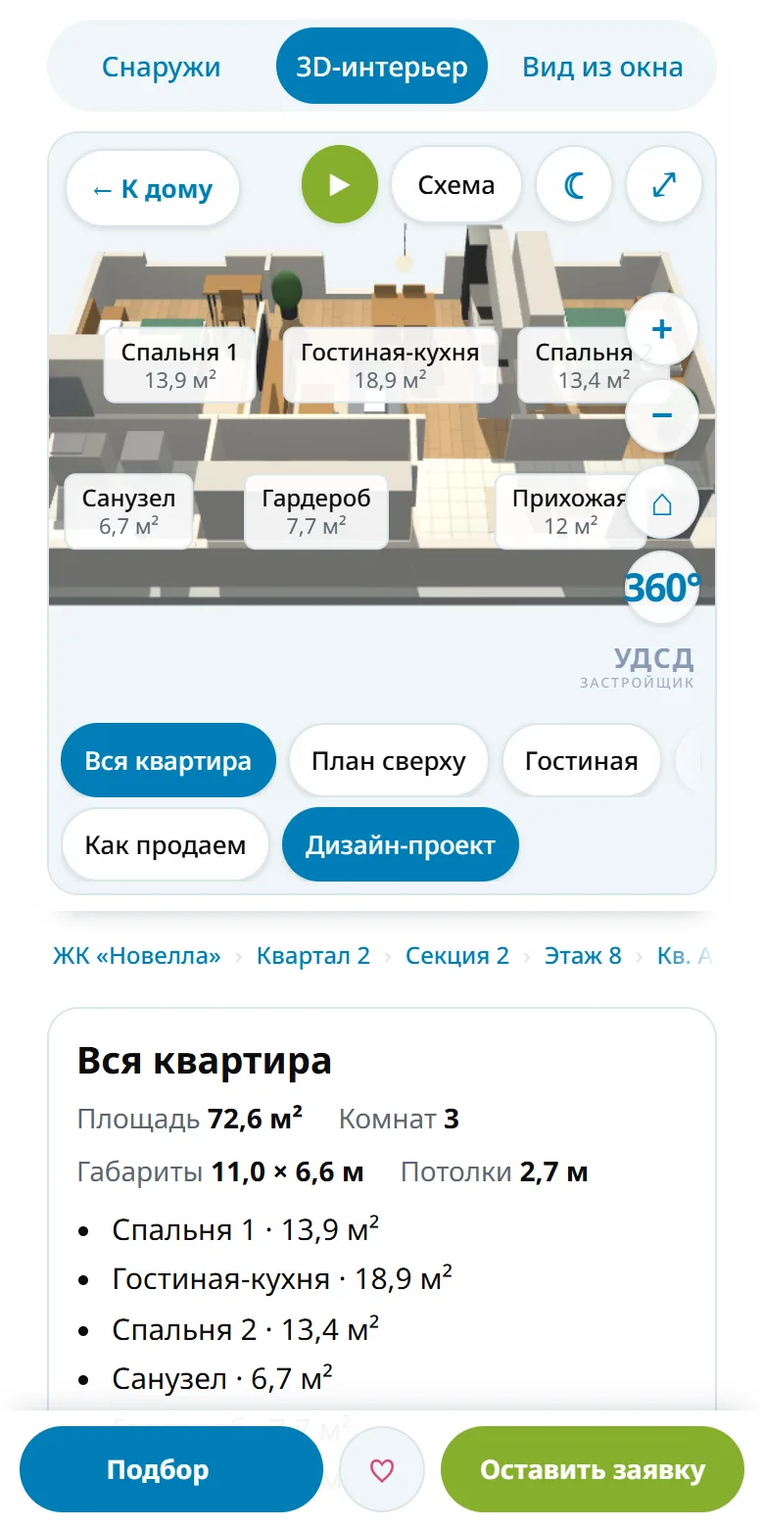
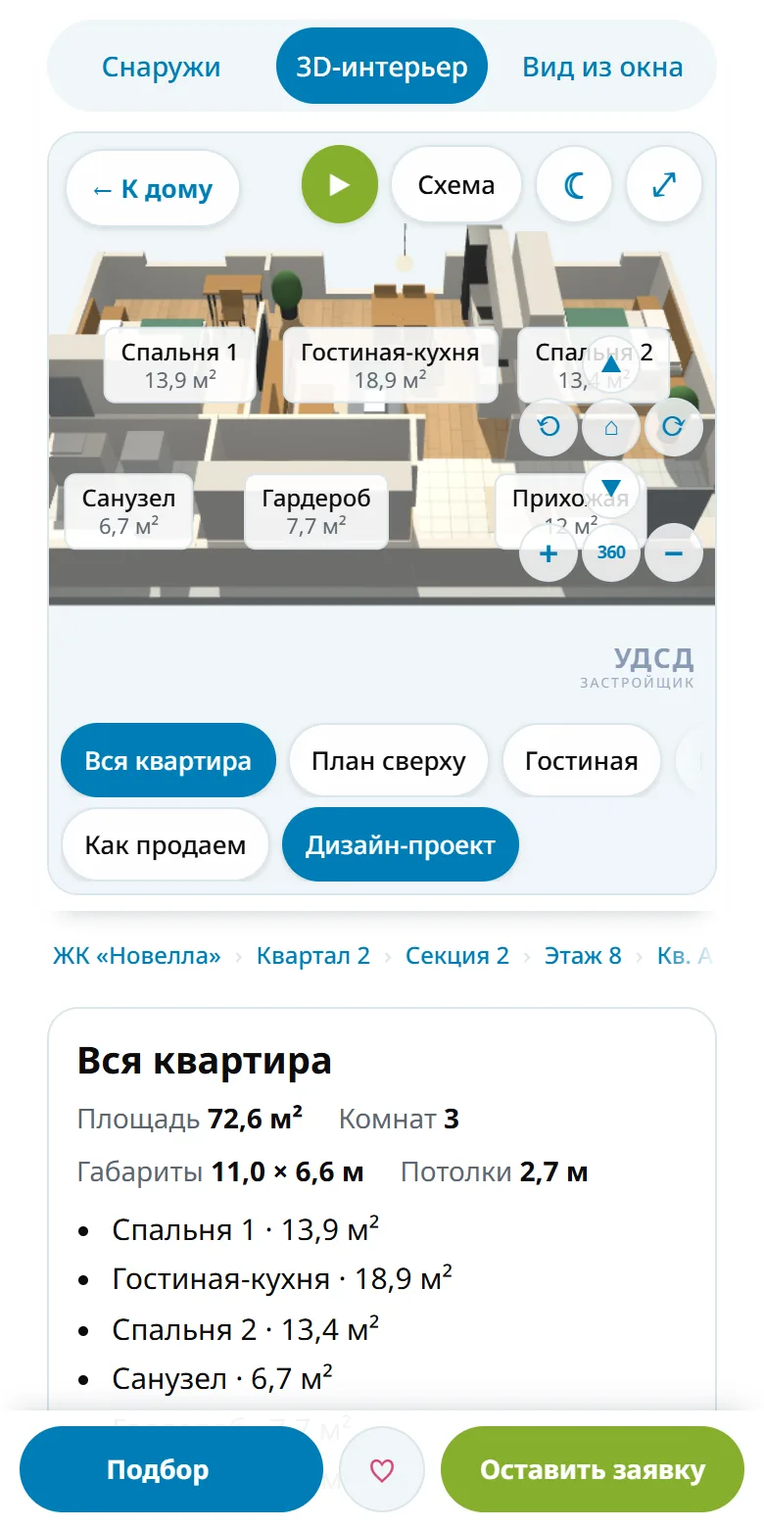
Навигация кнопками, большое окно 3D, дом не режется, подписи дальних мест
Окно 3D почти на всю высоту, в КП демо шире и выше; меньше кнопок и подсказок поверх 3D.
Снаружи: ряд шагов Город · Район · ЖК · Дом · Этаж · Квартира, крестовина камеры (наклон, поворот, вернуть вид, масштаб, 360), компас и план комплекса с направлением камеры.
Выбор квартиры оставляет весь дом с подсветкой; этаж в разрезе — по кнопке, с настоящим фасадом снизу и стеклом сверху.
Микрорайоны, части города и реки подписаны с расстоянием; то, что за кадром, — у края со стрелкой.

Changed region(s): [[0.6769, 0.1846, 0.9231, 0.4]]

diff --git a/demo/index.html b/demo/index.html
@@ -64,7 +64,7 @@ h1{font-family:var(--f-display);font-weight:700;font-size:clamp(26px,6vw,38px);l
    Phones get a shorter stage so there is room to scroll the controls; short landscape screens do not pin at all. */
 .pin{position:sticky;top:0;z-index:5;display:flex;flex-direction:column;gap:10px;background:var(--bg);margin:0 -4px;padding:max(6px,env(safe-area-inset-top,0px)) 4px 8px;box-shadow:0 10px 12px -12px rgba(15,40,55,.35)}
 @media (max-height:480px){.pin{position:static;box-shadow:none}}   /* a phone held sideways: no room to pin */
-.stage{position:relative;height:clamp(340px,58vh,640px);height:clamp(340px,58svh,640px);background:var(--stage);border:1px solid var(--line);border-radius:16px;overflow:hidden;--dockh:0px}
+.stage{position:relative;height:clamp(420px,calc(100vh - 130px),900px);height:clamp(420px,calc(100svh - 130px),900px);background:var(--stage);border:1px solid var(--line);border-radius:16px;overflow:hidden;--dockh:0px}
 .stage canvas{display:block;width:100%;height:100%;touch-action:none}
 /* controls on the stage: a dock of chip rows along the bottom edge, day/evening under the plan button */
 .dock{position:absolute;left:0;right:0;bottom:0;display:flex;flex-direction:column;gap:6px;padding:22px 8px 8px;background:linear-gradient(to top,color-mix(in srgb,var(--stage) 92%,transparent) 55%,transparent);touch-action:pan-x;pointer-events:none}
@@ -217,7 +217,7 @@ button,select,summary,a,.chip,.rl{touch-action:manipulation;-webkit-tap-highligh
 .stage.walk .logo{display:none}   /* walking: the mini-map takes that corner */
 .tabs button.dev:not([aria-pressed="true"]),.chip.dev{opacity:.5}   /* not drawn for the chosen flat yet: «в разработке» on tap */
 /* floor column on the stage (left): number + a dot per apartment; the chosen floor filled */
-.stack{position:absolute;left:8px;top:56px;bottom:calc(var(--dockh) + 40px);z-index:2;display:flex;flex-direction:column;gap:2px;overflow-y:auto;scrollbar-width:none;background:color-mix(in srgb,var(--surf) 90%,transparent);border-radius:12px;padding:5px;box-shadow:0 1px 4px rgba(0,0,0,.12);max-height:max-content}
+.stack{position:absolute;left:8px;top:110px;bottom:calc(var(--dockh) + 40px);z-index:2;display:flex;flex-direction:column;gap:2px;overflow-y:auto;scrollbar-width:none;background:color-mix(in srgb,var(--surf) 90%,transparent);border-radius:12px;padding:5px;box-shadow:0 1px 4px rgba(0,0,0,.12);max-height:max-content}
 .stack::-webkit-scrollbar{display:none}
 .stack[hidden],body.touring .stack{display:none}
 .stack button{display:flex;align-items:center;gap:6px;border:0;background:transparent;border-radius:7px;padding:3px 6px;font:600 12px/1 var(--f-body);color:var(--fg);cursor:pointer;font-variant-numeric:tabular-nums;min-height:22px}
@@ -271,12 +271,34 @@ body.pinned:not(.full) .stack{display:none}
 .gl.aptl{pointer-events:auto;cursor:pointer;font-weight:700;font-size:12px;border:2px solid #fff;padding:3px 8px;box-shadow:0 1px 3px rgba(0,0,0,.2)}
 .gl.aptl.on{background:var(--acc);color:#fff}
 /* camera buttons: a column on the right, centred in the free part of the stage */
-.navpad{position:absolute;right:8px;top:calc((100% - var(--dockh)) / 2 + 24px);transform:translateY(-50%);display:flex;flex-direction:column;gap:6px;z-index:2}
+.navpad{position:absolute;right:8px;top:calc((100% - var(--dockh)) / 2 + 24px);transform:translateY(-50%);display:grid;grid-template-columns:repeat(3,38px);gap:4px;z-index:2;background:color-mix(in srgb,var(--surf) 70%,transparent);border-radius:14px;padding:5px}
 .navpad[hidden],body.touring .navpad{display:none}
-.navpad .icobtn{font-size:20px}
+.navpad .icobtn{width:38px;height:38px;font-size:17px;box-shadow:none}
+.navpad #nZoomIn,.navpad #nZoomOut{font-size:22px}
+/* where you are: compass + plan of the complex with the camera wedge */
+.where{position:absolute;left:8px;top:8px;z-index:2;display:flex;gap:6px;align-items:flex-start}
+.where[hidden],body.touring .where{display:none}
+.compass{width:40px;height:40px;border-radius:50%;border:1px solid var(--line);background:color-mix(in srgb,var(--surf) 94%,transparent);cursor:pointer;padding:0;position:relative;box-shadow:0 1px 3px rgba(0,0,0,.12)}
+.compass i{position:absolute;inset:0;display:flex;align-items:flex-start;justify-content:center;font:700 11px/1 var(--f-body);font-style:normal;color:#c43d32;padding-top:3px}
+.compass i::after{content:"";position:absolute;left:50%;top:15px;width:0;height:0;border:5px solid transparent;border-bottom:13px solid #c43d32;transform:translateX(-50%)}
+.cmap{width:170px;height:94px;background:color-mix(in srgb,var(--surf) 92%,transparent);border-radius:10px;box-shadow:0 1px 3px rgba(0,0,0,.12);cursor:pointer}
+.cmap rect{fill:#d9dee0;stroke:#fff;stroke-width:1.5}
+.cmap rect.free{fill:#bfe8d2}.cmap rect.cur{fill:var(--acc)}.cmap rect.own{stroke:#f2a23a;stroke-width:3}
+.cmap .road{fill:none;stroke:#b9bfc3;stroke-width:5}
+.cmap .cam{fill:rgba(0,125,182,.25);stroke:var(--acc);stroke-width:1.5}
+.cmap text{font:600 11px var(--f-body);fill:var(--mut)}
+/* steps along the bottom: city → district → complex → house → floor → apartment */
+.dock .steps .chip{font-weight:600}
+.dock .steps .chip[disabled]{opacity:.4;cursor:default}
+.gl.far{font-size:10.5px;color:var(--mut);background:color-mix(in srgb,var(--surf) 78%,transparent);border:1px dashed color-mix(in srgb,var(--mut) 40%,transparent)}
 @media (max-width:640px){
-  .navpad .nturn{display:none}   /* a finger turns the scene itself; zoom and «back» stay */
-  .navpad .icobtn{width:38px;height:38px}
+  .navpad{grid-template-columns:repeat(3,30px);gap:2px;padding:2px;right:4px;background:transparent}
+  .navpad .icobtn{width:30px;height:30px;font-size:13px;background:color-mix(in srgb,var(--surf) 82%,transparent)}
+  .navpad #nZoomIn,.navpad #nZoomOut{font-size:18px}
+  .navpad .nauto{font-size:9px}
+  .dock .steps .chip{padding:6px 10px}
+  .cmap{display:none}   /* a phone keeps the compass; the plan would cover the floor column */
+  .compass{width:34px;height:34px}
   body.pinned:not(.full) .navpad{display:none}
 }
 /* guided tour */
@@ -401,19 +423,26 @@ body.touring #dock,body.touring .hint,body.touring .badge,body.touring #tourBtn,
     <div class="tbar">
       <button type="button" class="planbtn tourbtn" id="tourBtn" aria-label="Экскурсия по «Новелле»">▶<span class="lg"> Экскурсия</span></button>
       <button type="button" class="planbtn" id="planBtn"><span class="lg">Схема квартиры</span><span class="sm">Схема</span></button>
-      <div class="chips tchips" id="rTime" role="group" aria-label="Освещение"></div>
-      <button type="button" class="icobtn sm" id="timeBtn" aria-label="Включить вечер">☾</button>
+      <div class="chips tchips" id="rTime" role="group" aria-label="Освещение" hidden></div>
+      <button type="button" class="icobtn" id="timeBtn" aria-label="Включить вечер" title="День / вечер">☾</button>
       <button type="button" class="icobtn" id="fullBtn" aria-label="Во весь экран" aria-pressed="false">⤢</button>
     </div>
     <div class="mini" id="mini" hidden></div>
-    <!-- camera buttons on the right edge: for those who do not drag or pinch -->
+    <!-- where you are: compass (north) and a map of the complex with the camera and its direction; tap a building on it to choose it -->
+    <div class="where" id="where">
+      <button type="button" class="compass" id="compass" aria-label="Повернуть камеру на север" title="Север вверх"><i>С</i></button>
+      <svg class="cmap" id="cmap" viewBox="-200 -110 400 220" aria-label="План комплекса"></svg>
+    </div>
+    <!-- camera by buttons: tilt, turn, back to the view, zoom, slow turn by itself -->
     <div class="navpad" id="navpad" role="group" aria-label="Камера">
-      <button type="button" class="icobtn" id="nZoomIn" aria-label="Приблизить" title="Приблизить">+</button>
-      <button type="button" class="icobtn" id="nZoomOut" aria-label="Отдалить" title="Отдалить">−</button>
-      <button type="button" class="icobtn nturn" id="nLeft" aria-label="Повернуть влево" title="Повернуть влево">⟲</button>
-      <button type="button" class="icobtn nturn" id="nRight" aria-label="Повернуть вправо" title="Повернуть вправо">⟳</button>
+      <span></span><button type="button" class="icobtn" id="nUp" aria-label="Посмотреть сверху" title="Выше">▲</button><span></span>
+      <button type="button" class="icobtn" id="nLeft" aria-label="Повернуть влево" title="Повернуть влево">⟲</button>
       <button type="button" class="icobtn" id="nHome" aria-label="Вернуть вид" title="Вернуть вид">⌂</button>
-      <button type="button" class="icobtn nauto" id="nAuto" aria-label="Вращать дом" title="Вращать дом" aria-pressed="false">360°</button>
+      <button type="button" class="icobtn" id="nRight" aria-label="Повернуть вправо" title="Повернуть вправо">⟳</button>
+      <span></span><button type="button" class="icobtn" id="nDown" aria-label="Посмотреть ниже" title="Ниже">▼</button><span></span>
+      <button type="button" class="icobtn" id="nZoomIn" aria-label="Приблизить" title="Приблизить">+</button>
+      <button type="button" class="icobtn nauto" id="nAuto" aria-label="Вращать" title="Вращать" aria-pressed="false">360</button>
+      <button type="button" class="icobtn" id="nZoomOut" aria-label="Отдалить" title="Отдалить">−</button>
     </div>
     <!-- outside: the floors of the chosen building, top to bottom, a dot per apartment in its status colour (tap = that floor, cut open) -->
     <div class="stack" id="stack" role="group" aria-label="Этажи дома"></div>
@@ -425,6 +454,7 @@ body.touring #dock,body.touring .hint,body.touring .badge,body.touring #tourBtn,
       <div class="chips" id="rView" data-m="int" role="group" aria-label="Комната"></div>
       <div class="chips" id="rFinish" data-m="int" role="group" aria-label="Отделка"></div>
       <div class="chips" id="rWin" data-m="win" role="group" aria-label="Окно"></div>
+      <div class="chips steps" id="rSteps" data-m="ext" role="group" aria-label="Что показать"></div>
       <div class="chips" id="rApt" data-m="off" role="group" aria-label="Квартира на этаже"></div>
       <div class="chips" id="rFloor" data-m="win" role="group" aria-label="Этаж"><span class="dlab">Этаж</span></div>
     </div>
@@ -1281,9 +1311,17 @@ body.touring #dock,body.touring .hint,body.touring .badge,body.touring #tourBtn,
     if (!fv) return;
     const sx = sec.alongX ? sec.len : sec.depth, sz = sec.alongX ? sec.depth : sec.len, y0 = (S.floor - 1) * FLOOR_H;
     const add = (geo, mat, x, y, z, ud) => { const m = new THREE.Mesh(geo, mat); m.position.set(x, y, z); if (ud) m.userData = ud; floorG.add(m); return m; };
-    if (y0 > 0.1) {   // the floors below, as a plain block with an outline
-      const lo = add(new THREE.BoxGeometry(sx, y0, sz), lowerMat, sec.cx, y0 / 2, sec.cz);
-      lo.add(new THREE.LineSegments(new THREE.EdgesGeometry(lo.geometry), flLine));
+    // the building stays a building: the floors below keep their real facade, the floors above turn to glass with an outline
+    const facadeBox = (h, floors) => {
+      const geo = new THREE.BoxGeometry(sx, h, sz), uv = geo.attributes.uv, vRep = floors / 4;
+      const tile = (face, ext) => { const u = Math.max(1, Math.round(ext / 6)) / 4; for (let i = face * 4; i < face * 4 + 4; i++) uv.setXY(i, uv.getX(i) * u, uv.getY(i) * vRep); };
+      tile(0, sz); tile(1, sz); tile(4, sx); tile(5, sx); return geo;
+    };
+    if (y0 > 0.1) add(facadeBox(y0, S.floor - 1), Array.isArray(sec.mesh.material) ? sec.mesh.material : lowerMat, sec.cx, y0 / 2, sec.cz);
+    const top = sec.floors * FLOOR_H - y0 - FLOOR_H;
+    if (top > 0.1) {
+      const up = add(new THREE.BoxGeometry(sx, top, sz), houseMat, sec.cx, y0 + FLOOR_H + top / 2, sec.cz); up.renderOrder = 2;
+      up.add(new THREE.LineSegments(new THREE.EdgesGeometry(up.geometry), new THREE.LineBasicMaterial({ color: '#7f9299' })));
     }
     if (!sec.own) add(new THREE.BoxGeometry(sx + 0.4, 0.3, sz + 0.4), plateMat, sec.cx, y0 + 0.15, sec.cz);   // the floor slab: corridor and lift core read as its light grey (our section has its own floor model)
     LETTERS.forEach((l) => {
@@ -1543,8 +1581,9 @@ body.touring #dock,body.touring .hint,body.touring .badge,body.touring #tourBtn,
       updateFov();
       const sec = SECTIONS[S.sec], c = [sec.cx, (S.floor - 1) * FLOOR_H + 0.5, sec.cz], half = Math.tan(THREE.MathUtils.degToRad(camera.fov) / 2);
       const R = Math.max(26, sec.len * 1.25 / (2 * half * Math.min(camera.aspect, 1.6)), WD * 2.4 / (2 * half)), el = 1.08;
-      const k = sec.own ? -1 : 1;   // our section from the street side: the plan model and its captions then read the right way up
-      pos = [c[0] + k * n.x * R * Math.cos(el), c[1] + R * Math.sin(el), c[2] + k * n.z * R * Math.cos(el)];
+      // our section always from the street (north, -z) side: the plan model and its captions then read the right way up
+      const fx = sec.own ? 0 : n.x, fz = sec.own ? -1 : n.z;
+      pos = [c[0] + fx * R * Math.cos(el), c[1] + R * Math.sin(el), c[2] + fz * R * Math.cos(el)];
       flyTo(pos, c, instant); return;
     }
     if (S.extView === 'top') pos = [tx[0] - 2, tx[1] + 95, tx[2] + 24];
@@ -1660,10 +1699,11 @@ body.touring #dock,body.touring .hint,body.touring .badge,body.touring #tourBtn,
   function selectSection(i) {
     const sec = SECTIONS[i]; S.sec = i; if (S.floor > sec.floors) S.floor = sec.floors; if (S.floor < 2) S.floor = 2;
     S.apt = i === towerSec.i ? 'a' : firstFree(sec, S.floor); if (S.sec === towerSec.i && S.floor === 8) S.apt = 'a';
-    S.inner = false; S.extView = 'house'; afterPick();
+    S.inner = false; S.extView = 'house'; S.aptOpen = false; afterPick();
   }
   // path of choosing (Дом → Этаж → Квартира → Прогулка): a flat tapped on the facade opens its floor with the card
-  function selectApt(f, l) { S.floor = f; S.apt = l; S.extView = 'floor'; S.aptOpen = true; afterPick(); }
+  // a flat tapped on the facade (or chosen in a list) stays on the whole house, lit, with its card; «Этаж» cuts the house open
+  function selectApt(f, l) { S.floor = f; S.apt = l; if (/^(all|area|city)$/.test(S.extView)) S.extView = 'house'; S.aptOpen = true; afterPick(); }
   function afterPick() { placeOutside(); flyExt(false); refresh(true); }
   function goHouse() { S.extView = 'house'; S.aptOpen = false; S.inner = false; if (S.mode !== 'ext') enterExt(false); else { placeOutside(); flyExt(false); } refresh(true); }
   function goFloor(f) {
@@ -1705,6 +1745,15 @@ body.touring #dock,body.touring .hint,body.touring .badge,body.touring #tourBtn,
   });
   GEO.push({ t: 'ЖК «Новелла»', k: 'novella', x: 0, z: -40, y: 40 });
   const geoDom = [], gv = new THREE.Vector3();
+  // far labels: real districts and city parts (OpenStreetMap) and the rivers at their nearest point, nearest first
+  const kmTxt = (m) => (m < 1000 ? Math.round(m / 50) * 50 + ' м' : (m / 1000).toFixed(1).replace('.', ',') + ' км');
+  const FAR = [];
+  DISTRICTS.forEach((D) => { const m = Math.hypot(D.c[0], D.c[1]); if (m > 450) FAR.push({ k: 'far', x: D.c[0], z: D.c[1], km: m, t: D.n.replace(/^микрорайон /, 'мкр ').replace(/^квартал /, 'кв-л ') + ' · ' + kmTxt(m) }); });
+  if (CITY) {
+    CITY.parts.forEach((pt) => { const p = ring2(pt[1]), x = p.reduce((a, q) => a + q[0], 0) / p.length, z = p.reduce((a, q) => a + q[1], 0) / p.length, m = Math.hypot(x, z); if (m > 1500) FAR.push({ k: 'far', x: x, z: z, km: m, t: pt[0].replace('Новый Уренгой · ', '') + ' · ' + kmTxt(m) }); });
+    CITY.rivers.forEach((rv) => { let best = null; rv[1].forEach((f) => { for (let i = 0; i < f.length; i += 2) { const m = Math.hypot(f[i], f[i + 1]); if (!best || m < best.km) best = { x: f[i], z: f[i + 1], km: m }; } }); if (best) FAR.push({ k: 'far', x: best.x, z: best.z, km: best.km, t: 'р. ' + rv[0] + ' · ' + kmTxt(best.km) }); });
+  }
+  FAR.sort((a, b) => a.km - b.km);
   function updateGeo() {
     const on = S.mode === 'ext'; geoEl.hidden = !on; if (!on) return;
     const w = stageEl.clientWidth, h = stageEl.clientHeight, cp = camera.position, items = [], city = S.extView === 'city', wide = city || S.extView === 'area' || S.extView === 'all';
@@ -1715,8 +1764,27 @@ body.touring #dock,body.touring .hint,body.touring .badge,body.touring #tourBtn,
         if (gv.z < 1) items.push({ g: { k: 'aptl', l: l, t: '№ ' + aptNum(sec.i, S.floor, l) }, d: -5, sx: (gv.x * 0.5 + 0.5) * w, sy: (-gv.y * 0.5 + 0.5) * h });
       });
     }
+    // what is out there in the distance: districts, parts of the city, rivers — named with the distance from the complex
+    // out of the frame, the label sits at the edge of the stage with an arrow towards it, like a navigator (one per direction)
+    if (/^(house|yard|top|back|all|floor)$/.test(S.extView)) {
+      const dh = dockEl.offsetHeight, nl = narrow(), x0 = nl ? 120 : 140, x1 = w - (nl ? 120 : 150), y0 = 58, y1 = h - dh - 16, cx = (x0 + x1) / 2, cy = (y0 + y1) / 2, dirs = [];
+      const ARW = ['→', '↘', '↓', '↙', '←', '↖', '↑', '↗'];
+      let nIn = 0;
+      FAR.forEach((g) => {
+        gv.set(g.x, 12, g.z).project(camera);
+        let dx = gv.x, dy = -gv.y; const behind = gv.z > 1; if (behind) { dx = -dx; dy = -dy; }
+        const sx = (dx * 0.5 + 0.5) * w, sy = (dy * 0.5 + 0.5) * h;
+        if (!behind && sx > x0 && sx < x1 && sy > y0 && sy < y1) { if (nIn++ < 6) items.push({ g: g, d: 1e5 + g.km, sx: sx, sy: sy }); return; }
+        let ux = sx - cx, uy = sy - cy; const L = Math.hypot(ux, uy) || 1; ux /= L; uy /= L;
+        const a = Math.atan2(uy, ux); if (dirs.length >= 6 || dirs.some((q) => Math.abs(Math.atan2(Math.sin(a - q), Math.cos(a - q))) < 0.5)) return; dirs.push(a);
+        const t = Math.min(ux ? ((ux > 0 ? x1 : x0) - cx) / ux : 1e9, uy ? ((uy > 0 ? y1 : y0) - cy) / uy : 1e9);
+        const oct = ((Math.round(a / (Math.PI / 4)) % 8) + 8) % 8;
+        items.push({ g: { k: 'far', t: ARW[oct] + ' ' + g.t }, d: 2e5 + g.km, sx: cx + ux * t, sy: cy + uy * t });
+      });
+    }
     GEO.forEach((g) => {
       if (S.extView === 'floor') return;
+      if (g.k === 'dist' && /^(house|yard|top|back|all)$/.test(S.extView)) return;   // shown as far labels with distance
       if (city ? !/^(dist|part|novella)$/.test(g.k) : g.k === 'part' || g.k === 'novella') return;   // the city map shows only the city's names
       if (g.k === 'dist' && !wide) return;
       if (g.k === 'sec' && ((S.layer !== 'free' && !fltOn()) || S.extView === 'house' || g.sec.i === S.sec || !(fltOn() ? g.sec.match : g.sec.free) || S.extView === 'area')) return;
@@ -1731,17 +1799,19 @@ body.touring #dock,body.touring .hint,body.touring .badge,body.touring #tourBtn,
       if (gv.z < 1) items.push({ g: { k: 'own', t: 'Наша кв. А · 3D-интерьер' }, d: -1, sx: (gv.x * 0.5 + 0.5) * w, sy: (-gv.y * 0.5 + 0.5) * h - 14 });
     }
     items.sort((a, b) => a.d - b.d);
-    const max = city ? 44 : 26; let ns = 0; const shown = items.filter((it) => it.g.k !== 'sec' || ++ns <= (S.extView === 'all' ? 12 : 8)).slice(0, max);
+    const max = city ? 44 : 34; let ns = 0; const shown = items.filter((it) => it.g.k !== 'sec' || ++ns <= (S.extView === 'all' ? 12 : 8)).slice(0, max);
     while (geoDom.length < max) { const d = document.createElement('div'); d.className = 'gl'; geoEl.appendChild(d); geoDom.push(d); }
     const placed = [];   // in the wide views a label that would cover one already placed is skipped (nearest and city names go first)
     geoDom.forEach((d, i) => {
       const it = shown[i]; if (!it) { d.style.display = 'none'; return; }
       const g = it.g, txt = g.k === 'sec' ? (fltOn() ? g.sec.match + ' подх.' : g.sec.free + ' своб.') : g.t;
-      const cls = 'gl ' + (/^(sec|street|own|dist|part|novella|aptl)$/.test(g.k) ? g.k : '') + (g.k === 'aptl' && S.aptOpen && g.l === S.apt ? ' on' : '');
+      const cls = 'gl ' + (/^(sec|street|own|dist|part|novella|aptl|far)$/.test(g.k) ? g.k : '') + (g.k === 'aptl' && S.aptOpen && g.l === S.apt ? ' on' : '');
       d.style.display = ''; let ch = !d._w; if (d.className !== cls) { d.className = cls; ch = true; } if (d.textContent !== txt) { d.textContent = txt; ch = true; }
       if (ch) { d._w = d.offsetWidth; d._h = d.offsetHeight; }   // size is measured only when the label changes
-      const bw = d._w, bh = d._h, x = it.sx - bw / 2, y = it.sy - bh / 2;
-      if (wide && placed.some((p) => x < p[0] + p[2] + 2 && x + bw + 2 > p[0] && y < p[1] + p[3] + 1 && y + bh + 1 > p[1])) { d.style.display = 'none'; return; }
+      const bw = d._w, bh = d._h;
+      let x = it.sx - bw / 2, y = it.sy - bh / 2;
+      if (g.k === 'far') { x = clamp(x, narrow() ? 118 : 136, w - bw - (narrow() ? 118 : 146)); y = clamp(y, 52, h - bh - dockEl.offsetHeight - 6); }   // clear of the floor column and the camera pad   // edge labels stay whole inside the stage
+      if (placed.some((p) => x < p[0] + p[2] + 2 && x + bw + 2 > p[0] && y < p[1] + p[3] + 1 && y + bh + 1 > p[1])) { d.style.display = 'none'; return; }
       placed.push([x, y, bw, bh]);
       d.dataset.sec = g.k === 'sec' ? g.sec.i : ''; d.dataset.l = g.k === 'aptl' ? g.l : '';
       d.style.borderColor = g.k === 'aptl' ? FL_COL[status(S.sec, S.floor, g.l)] : '';   // the number carries the status colour of its flat
@@ -1837,7 +1907,7 @@ body.touring #dock,body.touring .hint,body.touring .badge,body.touring #tourBtn,
   }
   function goApt(si, f, l) {
     S.sec = si; S.floor = f; S.apt = l; S.inner = false;
-    S.extView = 'floor'; S.aptOpen = true;   // the floor of that flat, cut open, with its card
+    if (!/^(yard|top|back)$/.test(S.extView)) S.extView = 'house'; S.aptOpen = true;   // the whole house with that flat lit, and its card
     if (S.mode !== 'ext') { enterExt(true); refresh(true); } else afterPick();
   }
   const openPick = () => { document.body.classList.add('picking'); $('scrim').hidden = false; };
@@ -1975,7 +2045,58 @@ body.touring #dock,body.touring .hint,body.touring .badge,body.touring #tourBtn,
   $('nZoomIn').addEventListener('click', () => navZoom(0.66)); $('nZoomOut').addEventListener('click', () => navZoom(1.5));
   $('nLeft').addEventListener('click', () => navTurn(0.6)); $('nRight').addEventListener('click', () => navTurn(-0.6));
   $('nHome').addEventListener('click', navHome);
+  // tilt: ▲ looks more from above, ▼ lower towards the horizon
+  function navTilt(d) {
+    const t = controls.target.clone(), sp = new THREE.Spherical().setFromVector3(camera.position.clone().sub(t));
+    sp.phi = clamp(sp.phi - d, 0.12, Math.min(controls.maxPolarAngle, 1.5)); orbitTo(new THREE.Vector3().setFromSpherical(sp).add(t), t);
+  }
+  $('nUp').addEventListener('click', () => navTilt(0.3)); $('nDown').addEventListener('click', () => navTilt(-0.3));
   sync.push(() => { $('navpad').hidden = !orbitOn(); });
+
+  /* ---------- where you are: compass and the plan of the complex ---------- */
+  // north on the map: the city layer is turned with ул. Мира (CITY.rot), so true north is -z turned by that angle
+  const NR = THREE.MathUtils.degToRad(CITY ? CITY.rot : 0), NORTH = new THREE.Vector3(-Math.sin(-NR), 0, -Math.cos(-NR));
+  const camDir = new THREE.Vector3();
+  function camHeading() { camera.getWorldDirection(camDir); camDir.y = 0; if (camDir.lengthSq() < 1e-6) camDir.set(0, 0, -1); camDir.normalize(); return Math.atan2(camDir.x * NORTH.z - camDir.z * NORTH.x, camDir.x * NORTH.x + camDir.z * NORTH.z); }
+  const compassI = $('compass').firstElementChild;
+  $('compass').addEventListener('click', () => {   // turn the camera about its centre until it faces north
+    const t = controls.target.clone(), off = camera.position.clone().sub(t), h = camHeading();
+    orbitTo(off.applyAxisAngle(new THREE.Vector3(0, 1, 0), h).add(t), t);
+  });
+  const cmap = $('cmap'), SVGN = 'http://www.w3.org/2000/svg';
+  const sv = (tag, at) => { const e = document.createElementNS(SVGN, tag); Object.keys(at).forEach((k) => e.setAttribute(k, at[k])); return e; };
+  [[-200, -104, 400, -104], [-200, 0, 400, 0], [-200, 104, 400, 104], [0, -110, 0, 110]].forEach((r) => cmap.appendChild(sv('line', { x1: r[0], y1: r[1], x2: r[2], y2: r[3], class: 'road' })));
+  const cmRects = SECTIONS.map((sec) => {
+    const w = sec.alongX ? sec.len : sec.depth, d = sec.alongX ? sec.depth : sec.len;
+    const r = sv('rect', { x: sec.cx - w / 2, y: sec.cz - d / 2, width: w, height: d, rx: 1.5 }); r.addEventListener('click', (e) => { e.stopPropagation(); selectSection(sec.i); });
+    cmap.appendChild(r); return r;
+  });
+  const cmCam = sv('path', { class: 'cam' }); cmap.appendChild(cmCam);
+  cmap.appendChild(sv('text', { x: -194, y: -94 })).textContent = 'ул. Мира';
+  cmap.addEventListener('click', () => goExt('all'));
+  let whereKey = '';
+  function renderWhere() {
+    const on = S.mode === 'ext'; $('where').hidden = !on; if (!on) return;
+    const h = camHeading(); compassI.style.transform = 'rotate(' + (-h * 180 / Math.PI).toFixed(1) + 'deg)';
+    const key = S.sec + '|' + fltKey() + '|' + S.extView; if (key !== whereKey) {
+      whereKey = key;
+      cmRects.forEach((r, i) => { const sec = SECTIONS[i]; r.setAttribute('class', (i === S.sec ? 'cur' : (fltOn() ? sec.match : sec.free) ? 'free' : '') + (sec.own ? ' own' : '')); });
+    }
+    // the camera: a dot where it stands (kept inside the plan) and a wedge in the direction it looks
+    camera.getWorldDirection(camDir); camDir.y = 0; camDir.normalize();
+    const px = clamp(camera.position.x, -192, 192), pz = clamp(camera.position.z, -104, 104), a = Math.atan2(camDir.z, camDir.x), L = 46, s = 0.42;
+    cmCam.setAttribute('d', 'M' + px.toFixed(1) + ',' + pz.toFixed(1) + 'L' + (px + Math.cos(a - s) * L).toFixed(1) + ',' + (pz + Math.sin(a - s) * L).toFixed(1) + 'L' + (px + Math.cos(a + s) * L).toFixed(1) + ',' + (pz + Math.sin(a + s) * L).toFixed(1) + 'Z');
+  }
+
+  /* ---------- steps along the bottom of the stage: Город · Район · Комплекс · Дом · Этаж · Квартира ---------- */
+  const STEP = [['Город', 'city'], ['Район', 'area'], ['Комплекс', 'all', 'ЖК'], ['Дом', 'house'], ['Этаж', 'floor'], ['Квартира', 'apt', 'Кв.']];
+  const stepOf = () => (S.aptOpen ? 'apt' : /^(yard|top|back)$/.test(S.extView) ? 'apt' : S.extView);
+  STEP.forEach((s) => chip($('rSteps'), s[0], () => S.mode === 'ext' && stepOf() === s[1], () => {
+    if (s[1] === 'house') goHouse(); else if (s[1] === 'floor') goFloor(S.floor);
+    else if (s[1] === 'apt') { S.aptOpen = true; if (S.extView === 'all' || S.extView === 'area' || S.extView === 'city') S.extView = 'house'; goExt(S.extView); }
+    else { S.aptOpen = false; goExt(s[1]); }
+  }, s[2] ? { short: s[2] } : undefined));
+  sync.push(() => { $('planBtn').hidden = S.mode === 'ext'; });
   // «360°»: the building turns by itself (sales office screen); any touch of the 3D stops it
   const nAuto = $('nAuto');
   function setAuto(on) { controls.autoRotate = on; controls.autoRotateSpeed = 0.8; nAuto.setAttribute('aria-pressed', on ? 'true' : 'false'); if (on) wake(); }
@@ -2199,7 +2320,7 @@ body.touring #dock,body.touring .hint,body.touring .badge,body.touring #tourBtn,
     }
     // an apartment: plan, facts, price, walk in 3D
     const t = TYPES[S.apt], st = status(S.sec, S.floor, S.apt), own = sec.own && S.apt === 'a';
-    box.appendChild(back('← Этаж ' + S.floor, () => goFloor(S.floor)));
+    box.appendChild(S.extView === 'floor' ? back('← Этаж ' + S.floor, () => goFloor(S.floor)) : back('← Весь дом', goHouse));
     const h = el('h2', '', 'Квартира № ' + aptNum(S.sec, S.floor, S.apt)); h.appendChild(el('span', 'pill ' + st, ST[st].t)); if (!own) h.appendChild(el('span', 'devtag', '3D в разработке')); box.appendChild(h);
     box.appendChild(el('p', 'sub', 'Кв. ' + t.n + ' · этаж ' + S.floor + ' из ' + sec.floors + ' · окна ' + (t.face === 1 ? 'во двор, на юг' : 'на улицу, на север') + ' · ' + secName(sec).toLowerCase()));
     const pl = el('div', 'cplan'); pl.innerHTML = own ? planSvg({ S: 30, pad: 22, labels: true }) : genericPlan(S.apt); box.appendChild(pl);
@@ -2212,7 +2333,9 @@ body.touring #dock,body.touring .hint,body.touring .badge,body.touring #tourBtn,
     box.appendChild(w3);
     const bs = el('div', 'xbtns'), wv = el('button', 'chip' + (own ? '' : ' dev'), 'Вид из окна'), sc = el('button', 'chip', 'Схема');
     wv.type = sc.type = 'button'; wv.addEventListener('click', () => { if (!own) { devDlg('win'); return; } enterWindow(); refresh(true); }); sc.addEventListener('click', openPlan);
-    bs.appendChild(wv); bs.appendChild(sc); box.appendChild(bs);
+    bs.appendChild(wv); bs.appendChild(sc);
+    if (S.extView !== 'floor') { const fc = el('button', 'chip', 'Этаж ' + S.floor + ' в разрезе'); fc.type = 'button'; fc.addEventListener('click', () => { const a = S.apt; goFloor(S.floor); openApt(a); }); bs.appendChild(fc); }
+    box.appendChild(bs);
   }
   const FEAT = {
     living: ['Зона отдыха: диван, ТВ-тумба, ковёр', 'Панорамное окно у обеденной группы', 'Линейная кухня вдоль стены, 2,6 м'],
@@ -2237,6 +2360,8 @@ body.touring #dock,body.touring .hint,body.touring .badge,body.touring #tourBtn,
   let hintTimer = 0, hintKey = '';
   function hintText() {
     const house = S.mode === 'ext' && S.extView === 'house', h = $('hint'), key = S.mode + S.cam + (house ? 'h' : '');
+    // outside and from above the buttons on the stage are the controls: no instructions over the 3D
+    if (S.mode === 'ext' || (S.mode === 'int' && S.cam !== 'walk')) { h.hidden = true; hintKey = key; return; }
     // how to move, said for the device in hand: mouse buttons on a computer, fingers on a phone
     const mouse = canHover && !narrow();
     h.textContent = house ? 'Нажмите на квартиру на фасаде, чтобы выбрать' : narrow()
@@ -2291,7 +2416,7 @@ body.touring #dock,body.touring .hint,body.touring .badge,body.touring #tourBtn,
     $('rowSee').hidden = !(S.mode === 'int' && S.cam === 'walk');
     $('tInt').setAttribute('aria-pressed', S.mode === 'int' ? 'true' : 'false'); $('tWin').setAttribute('aria-pressed', S.mode === 'win' ? 'true' : 'false'); $('tExt').setAttribute('aria-pressed', S.mode === 'ext' ? 'true' : 'false');
     refreshMaterials(); applyVisibility(); stageColor(true);
-    $('badge').hidden = S.mode === 'int'; if (S.mode === 'win') $('badge').textContent = 'Этаж ' + S.floor + ' · ' + WIN.find((w) => w.id === S.win).n; if (S.mode === 'ext') $('badge').textContent = 'Кв-л ' + SECTIONS[S.sec].q + ' · секц. ' + SECTIONS[S.sec].n + ' · эт. ' + S.floor + ' · кв. ' + TYPES[S.apt].n;
+    $('badge').hidden = S.mode !== 'win'; if (S.mode === 'win') $('badge').textContent = 'Этаж ' + S.floor + ' · ' + WIN.find((w) => w.id === S.win).n; if (S.mode === 'ext') $('badge').textContent = 'Кв-л ' + SECTIONS[S.sec].q + ' · секц. ' + SECTIONS[S.sec].n + ' · эт. ' + S.floor + ' · кв. ' + TYPES[S.apt].n;
     $('h1').textContent = S.mode === 'ext' ? 'Квартира ' + TYPES[S.apt].n + ', ' + fmt(TYPES[S.apt].area) + ' м²' : (narrow() ? '3-комн. квартира, 72,6 м²' : 'Трёхкомнатная квартира, 72,6 м²');
     if (S.mode === 'ext') fillExtPanel();
     trackRecent(); sync.forEach((f) => f()); renderCard(); renderExtras(); renderNote(); hintText();
@@ -2545,7 +2670,7 @@ body.touring #dock,body.touring .hint,body.touring .badge,body.touring #tourBtn,
     if (tick++ % 30 === 0) stageColor(false);
     // draw only while something changes (camera, flight, walking, a click) and twice a second otherwise; nothing while off screen
     if (onScreen && (anim || walk.path || walk.turn || dirty > 0 || now - lastDraw > 500)) {
-      renderer.render(scene, camera); updateLabels(); updateGeo(); lastDraw = now; if (dirty > 0) dirty--;
+      renderer.render(scene, camera); updateLabels(); updateGeo(); renderWhere(); lastDraw = now; if (dirty > 0) dirty--;
       lastPos.copy(camera.position); lastQ.copy(camera.quaternion);
       if (loaderEl) { loaderEl.remove(); loaderEl = null; setTimeout(loadCityBlocks, 300); }   // the first frame is on screen
     }

diff --git a/index.html b/index.html
@@ -49,8 +49,9 @@ section{padding:40px 0;border-top:1px solid var(--line)}
 .stat .v{font:600 clamp(24px,4vw,34px)/1.05 var(--f-display);color:var(--acc);font-variant-numeric:tabular-nums}
 .stat .k{font-size:13.5px;color:var(--fg);margin-top:6px}
 
-.demo-frame{margin-top:26px;border:1px solid var(--line);border-radius:14px;overflow:hidden;background:var(--surf)}
-.demo-frame iframe{display:block;width:100%;height:800px;border:0}
+/* the demo wider than the text column and almost a screen tall: inside it the 3D gets the computer layout (3D left, panel right) */
+.demo-frame{margin-top:26px;border:1px solid var(--line);border-radius:14px;overflow:hidden;background:var(--surf);width:min(1480px,calc(100vw - 32px));position:relative;left:50%;transform:translateX(-50%)}
+.demo-frame iframe{display:block;width:100%;height:min(92vh,960px);border:0}
 .demo-cap{font-size:13px;color:var(--mut);padding:10px 14px;border-top:1px solid var(--line)}
 @media (max-width:640px){.demo-frame{display:none}}
 

diff --git a/CLAUDE.md b/CLAUDE.md
@@ -56,3 +56,4 @@
 - Дома города: `demo/buildings.json` (~4000 зданий OSM ≥120 м², вне наших кварталов; `[высота, x,z,...]`, генерирует `tools/gen-city.js`), грузится после первого кадра (`loadCityBlocks`) и рисуется одним мешем светло-серых блоков без архитектуры.
 - Управление камерой: колесо/щипок тачпада приближает к точке под курсором (`zoomAbout`), двойной щелчок — подлёт, центр орбиты не уходит за сцену (`keepOver`), вращение спокойнее (`rotateSpeed` 0,7/0,5), сдвиг по земле; кнопки `#navpad` справа на сцене: + − ⟲ ⟳ ⌂ (на телефоне без поворотов); подсказка разная для мыши и пальцев.
 - Путь выбора «Снаружи» (по образцу Jomi Studio «Ёсуман», 28.10.2026): **Дом** (`extView:'house'`, колонка этажей `#stack` слева со статусными точками, наведение — светлая полоса этажа `band`, карточка-сводка) → **Этаж** (`extView:'floor'`, `goFloor`: секция и её крыша `sec.gab` скрыты, ниже этажа — простой блок, квартиры этажа — плиты по статусам `floorG` с номерами-кнопками `.gl.aptl`; у нашей секции вместо плит — модель интерьера А, соседи `nbG` и лифтовый узел `coreM`, камера со стороны улицы) → **Квартира** (`S.aptOpen`, `openApt`: карточка с планом, плитками, ценой, «Прогулка в 3D», «Вид из окна», «← Этаж N») → **Прогулка** (кнопка `#backHouse` «← К дому»). Кнопка 360° — автоповорот. Ряды квартир/этажей в доке в «Снаружи» убраны (их заменили колонка и карточка). Класс `sel` занят стилем select — не использовать для других элементов.
+- Навигация кнопками (28.10.2026, жалоба «мало окно, много кнопок, дом в коробку, непонятно что вдали»): сцена `calc(100svh - 130px)`; в «Снаружи» внизу ряд шагов `#rSteps` (Город · Район · ЖК · Дом · Этаж · Квартира), справа крестовина `#navpad` (▲▼ наклон `navTilt`, ⟲⟳, ⌂, + −, 360), слева вверху `#where`: компас (нажатие — север вверх, север = `CITY.rot`) и план комплекса `#cmap` с клином камеры (нажатие на дом — выбрать). Подсказки управления над 3D сняты, плашка места — только в виде из окна, «День/Вечер» — одна кнопка. Выбор квартиры **не режет дом** (`selectApt` остаётся на «Весь дом» с подсветкой и карточкой); «Этаж в разрезе» — по кнопке: нижние этажи с настоящим фасадом, верхние — стекло. Дальние места `FAR` (микрорайоны, части города, ближайшая точка рек) — подписи с расстоянием, за кадром — у края со стрелкой. В КП iframe демо шире колонки (до 1480px, 92vh).
